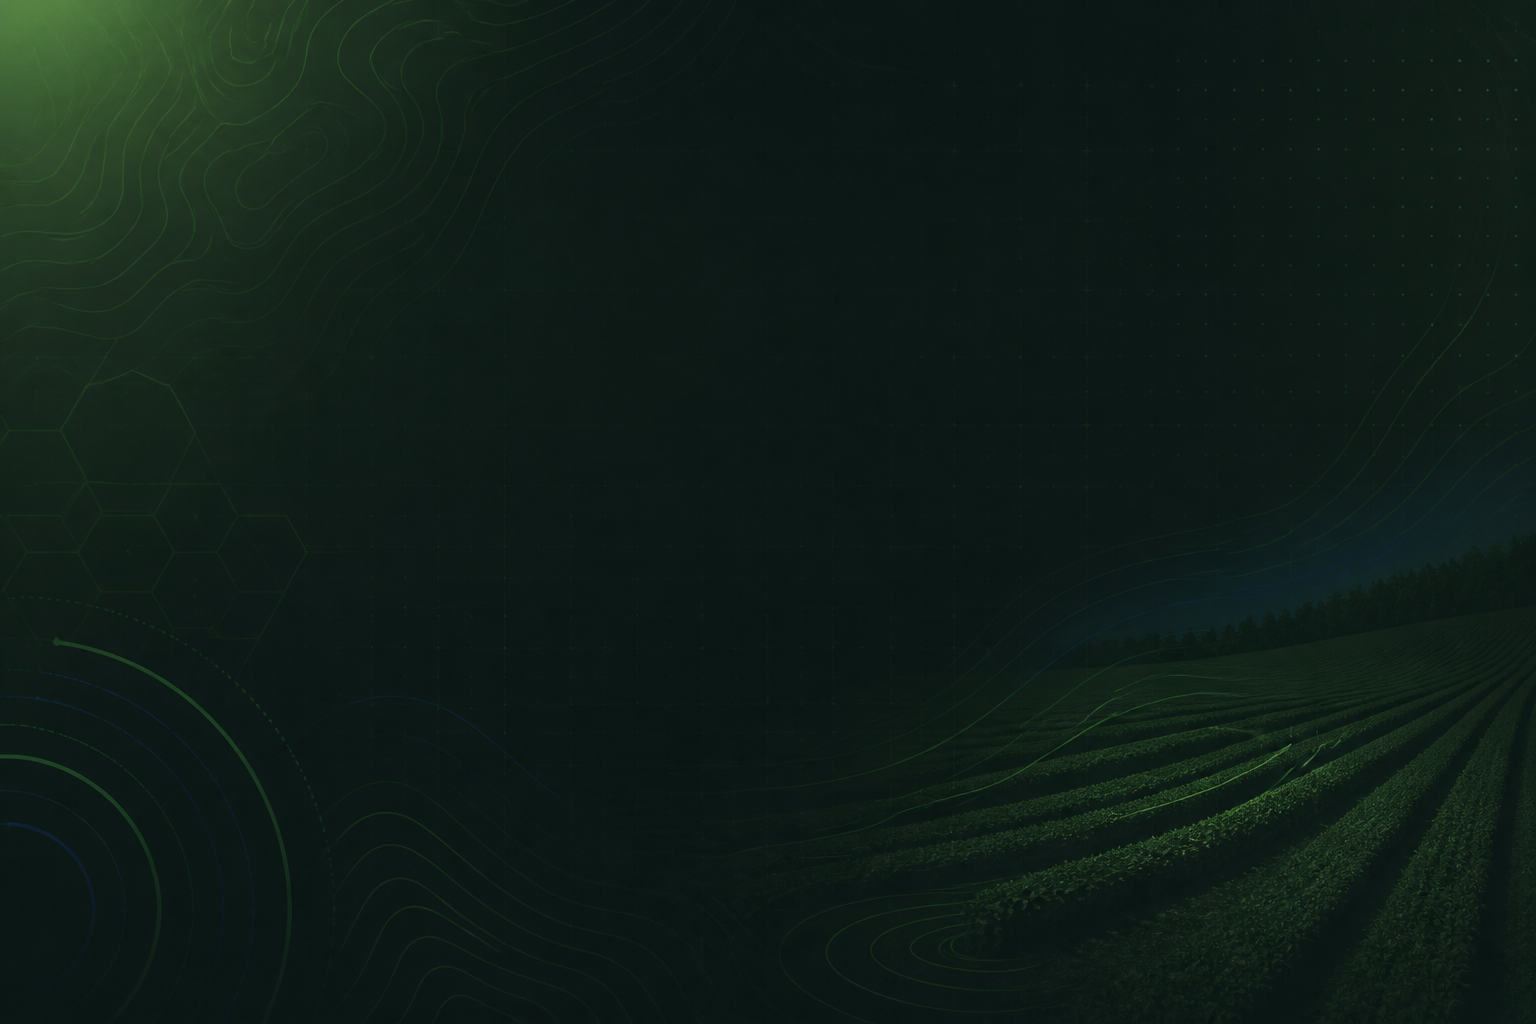
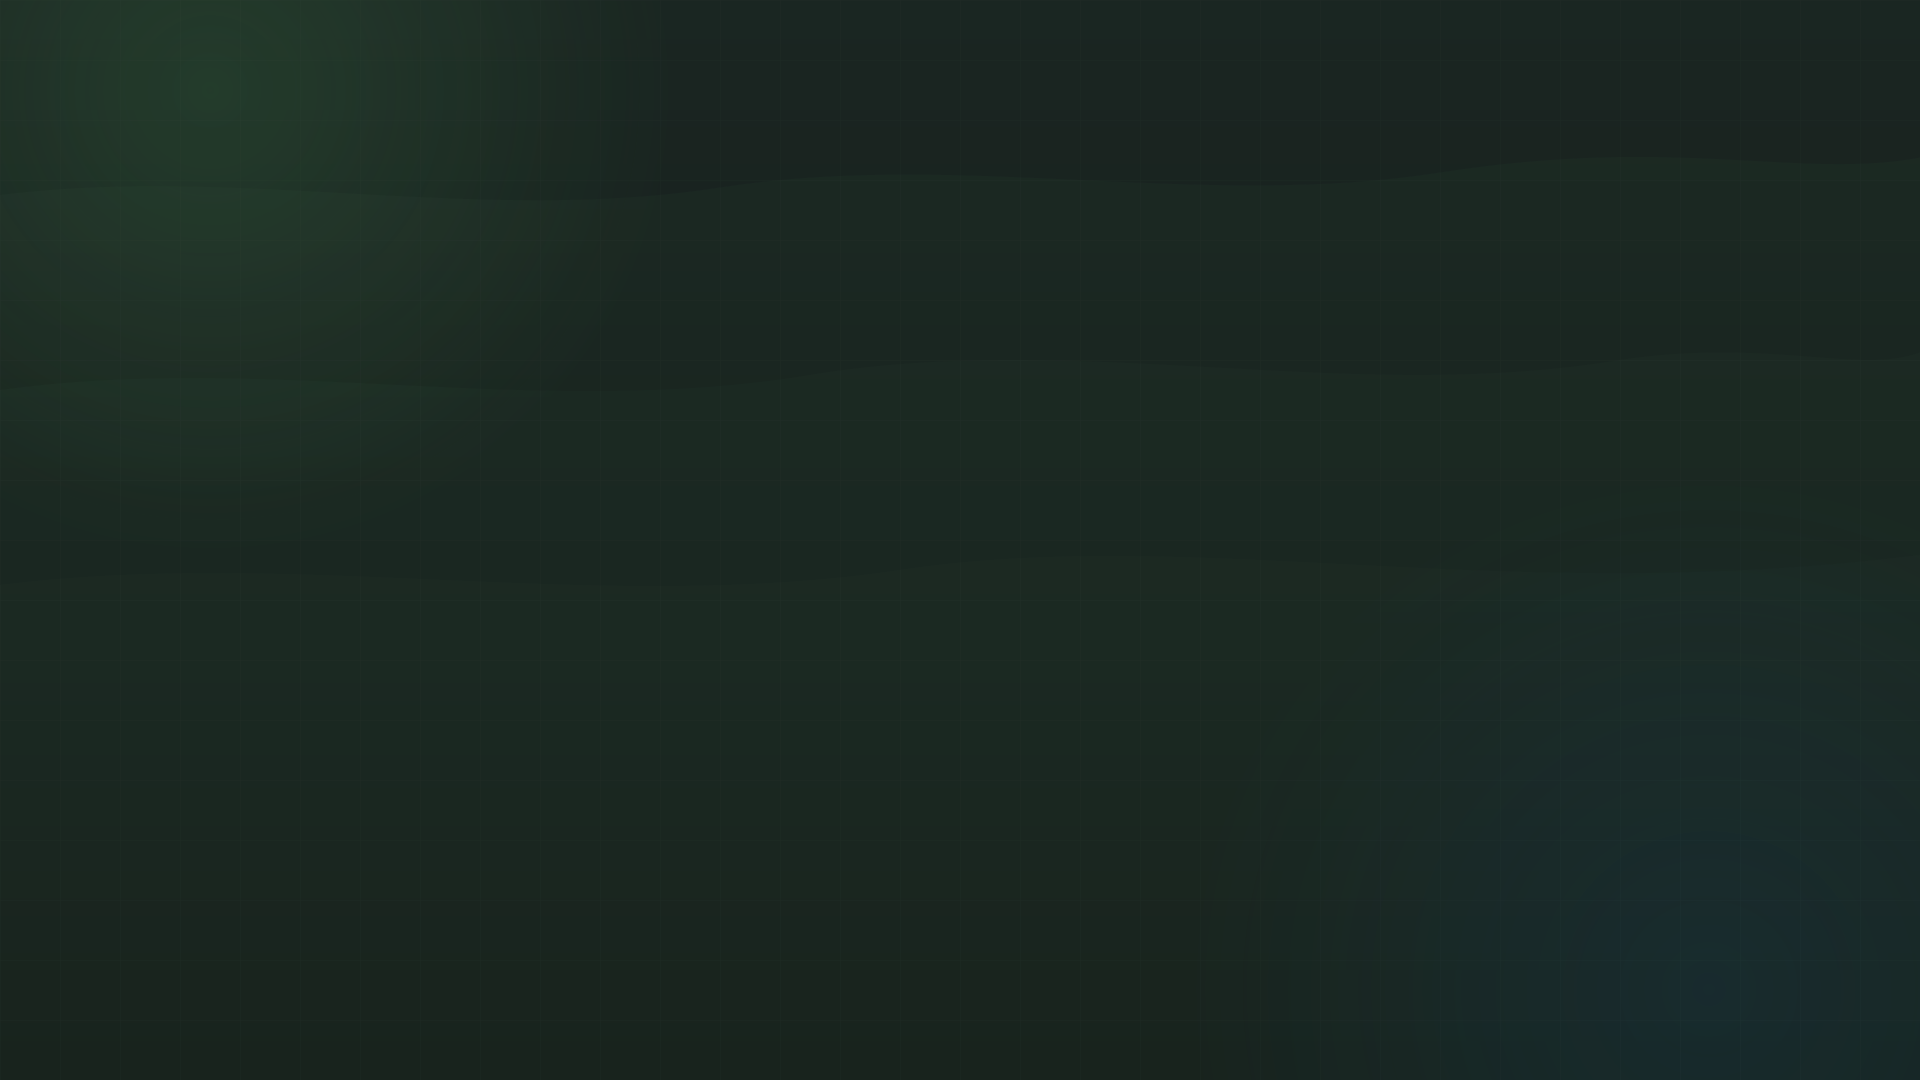
Add official dashboard wallpaper PNGs and Lovable prompts
Generate PNG exports from the SVG brand background (2560x1440, 1920x1080)
and add prompts for applying the wallpaper in Lovable plus optional UX hints
from the final panel validation.

diff --git a/dashboard-brand/LOVABLE-PROMPT-WALLPAPER.md b/dashboard-brand/LOVABLE-PROMPT-WALLPAPER.md
@@ -1,0 +1,75 @@
+# Prompt Lovable — Fundo padrão Santa Virgínia
+
+Cole no Lovable para aplicar o wallpaper oficial em **todas as páginas** do painel.
+
+---
+
+## Prompt
+
+```
+Aplique o fundo padrão Santa Virgínia em todo o painel (Visão Executiva, Operadores, Talhão, Frota, Custos).
+
+ARQUIVOS (faça upload para public/assets/ ou src/assets/):
+- dashboard-background-2560x1440.png  ← preferencial (QHD)
+- dashboard-background.svg          ← fallback vetorial
+
+PASSO 1 — Upload
+Faça upload de dashboard-background-2560x1440.png nos assets do projeto.
+
+PASSO 2 — Shell global
+No layout raiz (App.tsx ou componente shell compartilhado por todas as rotas), envolva o conteúdo:
+
+<div
+  className="min-h-screen bg-background text-foreground bg-cover bg-fixed bg-center bg-no-repeat"
+  style={{ backgroundImage: "url('/assets/dashboard-background-2560x1440.png')" }}
+>
+  {/* overlay escuro para legibilidade dos cards */}
+  <div className="min-h-screen bg-background/72 backdrop-blur-[1px]">
+    {/* header + main existentes */}
+  </div>
+</div>
+
+PASSO 3 — Cards legíveis sobre o fundo
+Garanta que cards KPI e tabelas usem:
+- bg-card/75 ou bg-card/80
+- border border-border/80
+- backdrop-blur-sm nos cards principais
+
+PASSO 4 — Header
+Header sticky com backdrop-blur-md bg-background/85 border-b border-border/60.
+Não colocar wallpaper no header — ele fica sobre o overlay.
+
+PASSO 5 — Remover wallpaper antigo
+Remover qualquer background-image JPG/URL externa anterior no shell.
+
+CORES DE REFERÊNCIA (já no theme):
+- Fundo base: oklch(17% 0.018 155) / #1a2420
+- Verde primário: #5cb86a
+- Azul institucional: #0d4f8b
+
+Fontes: Sora (títulos) + Manrope (corpo).
+
+Não alterar lógica de dados — apenas visual.
+```
+
+---
+
+## Arquivos no repositório
+
+```
+dashboard-brand/assets/
+├── dashboard-background.svg
+├── dashboard-background-2560x1440.png   ← usar este
+├── dashboard-background-1920x1080.png
+└── dashboard-background-16x9.png
+```
+
+## Alternativa CSS (sem imagem)
+
+Se preferir fundo gerado por CSS puro (sem upload):
+
+```tsx
+<div className="sv-dashboard-shell min-h-screen">
+```
+
+Importar `dashboard-brand/theme.css` — a classe `.sv-dashboard-shell` aplica gradiente + grid sutil equivalente ao PNG.

diff --git a/dashboard-brand/LOVABLE-PROMPT-AJUSTES-OPCIONAIS.md b/dashboard-brand/LOVABLE-PROMPT-AJUSTES-OPCIONAIS.md
@@ -1,0 +1,52 @@
+# Prompt Lovable — Ajustes opcionais (não bloqueiam go-live)
+
+Itens identificados na validação final. **Nenhum afeta a confiabilidade dos KPIs principais** — são melhorias de consistência metodológica ou manutenção de views.
+
+---
+
+## 1. View de abastecimento (backlog Supabase)
+
+**Contexto:** `vw_prod_abastecimento_base` retorna **5.943 L** (52 registros) no período 03–18/08, enquanto `posto` + `comboio_v2` somam **7.258 L** (60 registros). O painel Frota usa corretamente as tabelas base para o total; a view está desatualizada/incompleta.
+
+**Ação:** revisar a view no Supabase para incluir todos os registros de `posto` e `comboio_v2` (8 abastecimentos faltantes, ~1.315 L).
+
+---
+
+## 2. Hint de disponibilidade 94,1% (opcional UX)
+
+**Contexto:** A disponibilidade exibida usa:
+
+```
+horímetro dos apontamentos ÷ (horímetro + paradas de frotas que operaram no período)
+```
+
+Paradas de frotas **sem horímetro no período** (3283, 3306, 3307, 3368) ficam de fora do denominador — daí 94,1% em vez de 89,9%.
+
+**Prompt UX (opcional):**
+
+```
+Na aba Frota e Visão Executiva, adicionar hint abaixo do KPI Disponibilidade:
+
+"Considera paradas apenas de tratores com horímetro apontado no período."
+
+Ou renomear para "Disponibilidade (tratores em operação)".
+```
+
+---
+
+## 3. MTBF — hint metodológico (opcional)
+
+**Contexto:** MTBF 11,4 h = horas operando **somente das frotas que tiveram falha** ÷ 31 OS. MTTR 2,4 h e disponibilidade inerente 82,6% estão corretos e coerentes entre si.
+
+**Prompt UX (opcional):**
+
+```
+Adicionar tooltip no KPI MTBF:
+"Média de horas operando entre falhas, considerando apenas máquinas que registraram OS corretiva no período."
+```
+
+---
+
+## 4. Operadores com apontamento incompleto (dado de campo)
+
+MARCELO, ALEX e NILTON aparecem com 0 h turno mas horímetro > 0 — apontamentos incompletos no PWA, não bug do painel. Corrigir no lançamento de campo.
